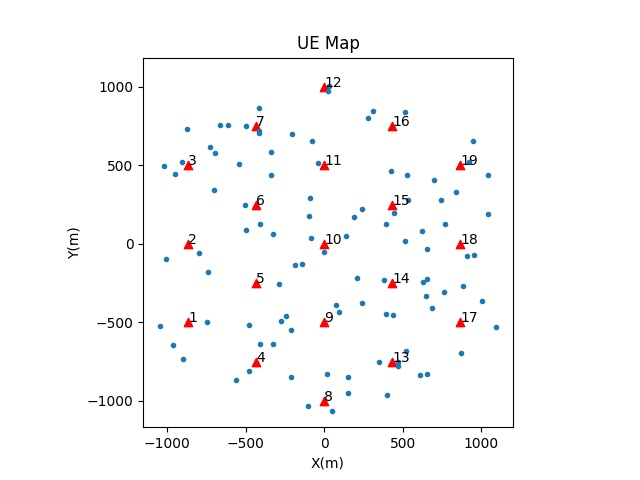
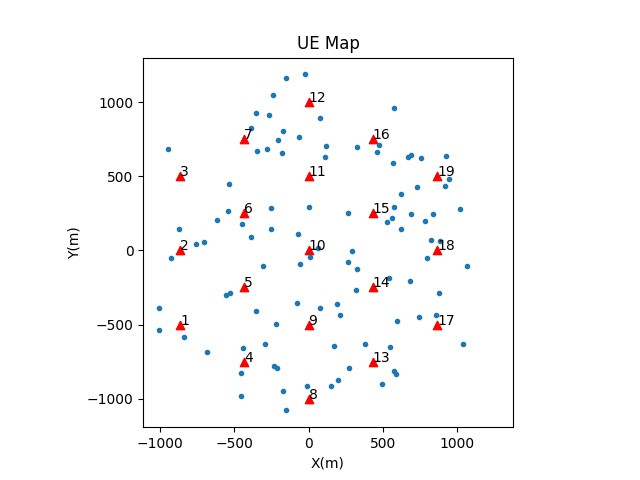
Add files via upload

diff --git a/simulation_3/sim3.py b/simulation_3/sim3.py
@@ -20,7 +20,6 @@ NEG_SQRT_3_div_2 = (-1) * (sqrt(3) / 2)
 UE_NUM = 100
 SCALE = 250 / SQRT_3_div_2
 THRESHOLD = 1500
-DELTA_TIME = 0.1
 
 
 class Map():
@@ -200,15 +199,15 @@ class Ue():
             self.get_direction()
             x_speed = self._speed * cos(self._angle)
             y_speed = self._speed * sin(self._angle)
-            self._x += x_speed * DELTA_TIME
-            self._y += y_speed * DELTA_TIME
-            self._time -= DELTA_TIME
+            self._x += x_speed
+            self._y += y_speed
+            self._time -= 1
         else:
             x_speed = self._speed * cos(self._angle)
             y_speed = self._speed * sin(self._angle)
-            self._x += x_speed * DELTA_TIME
-            self._y += y_speed * DELTA_TIME
-            self._time -= DELTA_TIME
+            self._x += x_speed
+            self._y += y_speed
+            self._time -= 1
 
     def change_bs(self, time, count, events):
         max_sinr = -1 * float('inf')
@@ -302,14 +301,12 @@ if __name__ == "__main__":
     Handoff_events = {}
     for i in range(UE_NUM):
         Handoff_events[f'{i + 1}'] = []
-    time = 0
-    while time <= 900:
+    for time in range(1, 901):
         for cluster in ma.cluster:
             for bs in cluster.bs:
                 for ue in bs.ue:
                     ue.update_loc()
                     count = ue.change_bs(time, count, Handoff_events)
-        time += DELTA_TIME
     print(f"Total handoff {count} times.")
     for i in range(UE_NUM):
         print(f"{i + 1}")
